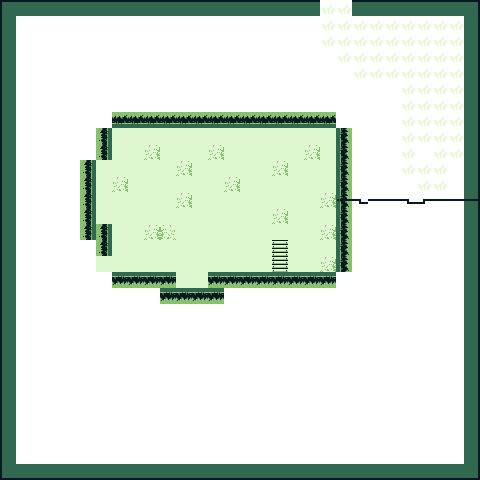
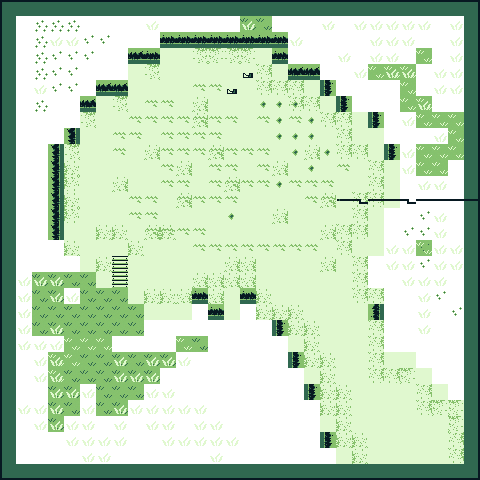
update backgroud map

diff --git a/tiled/PondMapSprites.tsx b/tiled/PondMapSprites.tsx
@@ -1,5 +1,5 @@
 <?xml version="1.0" encoding="UTF-8"?>
-<tileset version="1.10" tiledversion="1.11.2" name="PondMapSprites" tilewidth="16" tileheight="16" tilecount="19" columns="0">
+<tileset version="1.10" tiledversion="1.11.2" name="PondMapSprites" tilewidth="16" tileheight="16" tilecount="21" columns="0">
  <grid orientation="orthogonal" width="1" height="1"/>
  <tile id="0">
   <image source="sprites/pond-edge-horizontal.png" width="16" height="16"/>
@@ -57,5 +57,11 @@
  </tile>
  <tile id="18">
   <image source="sprites/Wasser.png" width="16" height="16"/>
+ </tile>
+ <tile id="19">
+  <image source="sprites/bg grass dark.png" width="16" height="16"/>
+ </tile>
+ <tile id="20">
+  <image source="sprites/bg grass light.png" width="16" height="16"/>
  </tile>
 </tileset>
